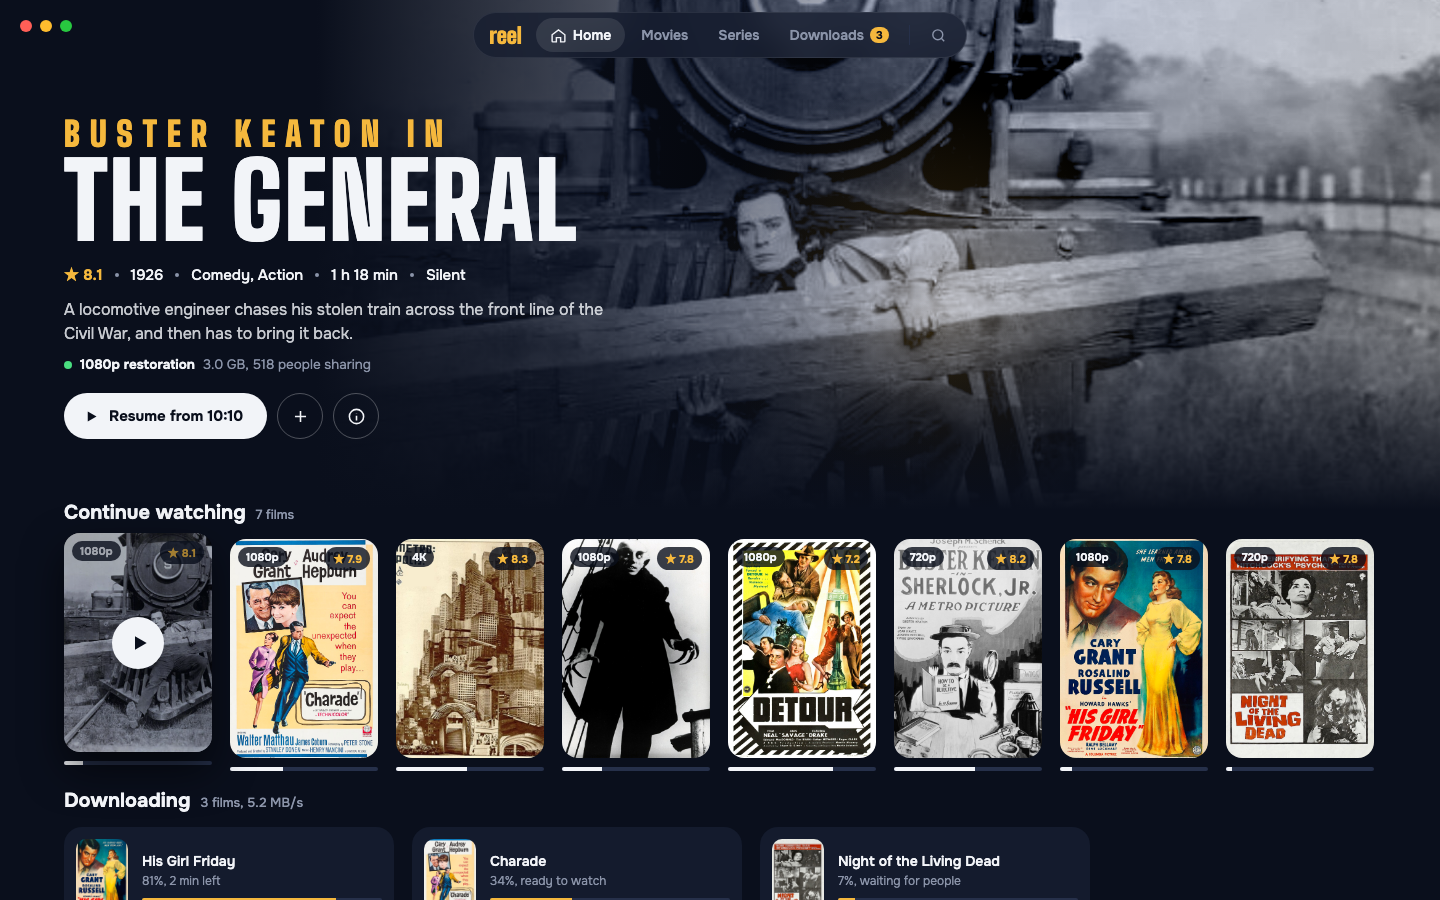
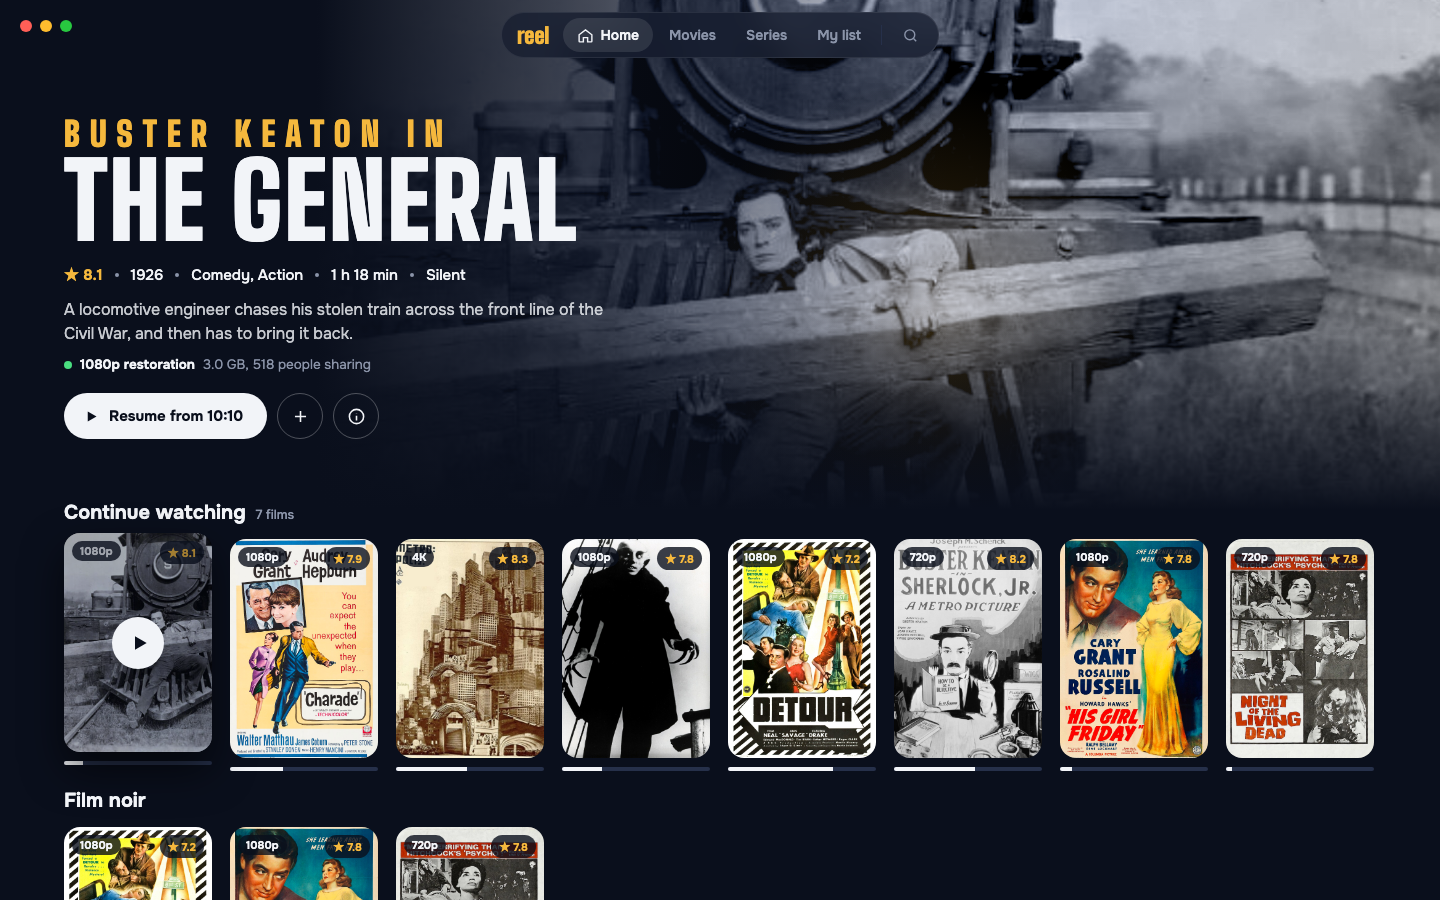
Drop downloads: reel streams only (app, mockups, design docs)

Changed region(s): [[0.0312, 0.8711, 0.75, 1.0], [0.3438, 0.0, 0.6875, 0.0622]]

diff --git a/design/concept/mac-home.html b/design/concept/mac-home.html
@@ -68,7 +68,7 @@
     <div class="item selected"><svg viewBox="0 0 24 24"><path d="M3 11l9-7 9 7v9a1 1 0 0 1-1 1h-5v-6H9v6H4a1 1 0 0 1-1-1z"/></svg>Home</div>
     <div class="item">Movies</div>
     <div class="item">Series</div>
-    <div class="item">Downloads <span class="count">3</span></div>
+    <div class="item">My list</div>
     <div class="sep"></div>
     <div class="item"><svg viewBox="0 0 24 24"><circle cx="11" cy="11" r="7"/><path d="M20 20l-4-4"/></svg></div>
   </nav>
@@ -101,11 +101,11 @@
   </section>
 
   <section class="shelf" style="top:788px">
-    <h2>Downloading <span>3 films, 5.2 MB/s</span></h2>
+    <h2>Film noir</h2>
     <div class="row">
-      <div class="dl"><img src="img/poster-friday.jpg" alt=""><div class="d"><div class="t">His Girl Friday</div><div class="s">81%, 2 min left</div><div class="track"><i style="width:81%"></i></div></div></div>
-      <div class="dl"><img src="img/poster-charade.jpg" alt=""><div class="d"><div class="t">Charade</div><div class="s">34%, ready to watch</div><div class="track"><i style="width:34%"></i></div></div></div>
-      <div class="dl"><img src="img/poster-night.jpg" alt=""><div class="d"><div class="t">Night of the Living Dead</div><div class="s">7%, waiting for people</div><div class="track"><i style="width:7%"></i></div></div></div>
+      <div class="p"><div class="poster"><img src="img/poster-detour.jpg" alt=""><span class="badge l">1080p</span><span class="badge r">★ 7.2</span></div></div>
+      <div class="p"><div class="poster"><img src="img/poster-friday.jpg" alt=""><span class="badge l">1080p</span><span class="badge r">★ 7.8</span></div></div>
+      <div class="p"><div class="poster"><img src="img/poster-night.jpg" alt=""><span class="badge l">720p</span><span class="badge r">★ 7.8</span></div></div>
     </div>
   </section>
 </body>

diff --git a/design/concept/phone-home.html b/design/concept/phone-home.html
@@ -67,10 +67,11 @@
   </section>
 
   <section class="shelf">
-    <h2>Downloading <span>3 films, 5.2 MB/s</span></h2>
+    <h2>Film noir <span>See all</span></h2>
     <div class="row">
-      <div class="dl"><img src="img/poster-friday.jpg" alt=""><div class="d"><div class="t">His Girl Friday</div><div class="s">81%, 2 min left</div><div class="track"><i style="width:81%"></i></div></div></div>
-      <div class="dl"><img src="img/poster-night.jpg" alt=""><div class="d"><div class="t">Night of the Living Dead</div><div class="s">7%, waiting for people</div><div class="track"><i style="width:7%"></i></div></div></div>
+      <div class="p"><div class="poster"><img src="img/poster-detour.jpg" alt=""><span class="badge">★ 7.2</span></div></div>
+      <div class="p"><div class="poster"><img src="img/poster-friday.jpg" alt=""><span class="badge">★ 7.8</span></div></div>
+      <div class="p"><div class="poster"><img src="img/poster-night.jpg" alt=""><span class="badge">★ 7.8</span></div></div>
     </div>
   </section>
 
@@ -87,7 +88,7 @@
   <nav class="tabs">
     <div class="tab selected"><svg viewBox="0 0 24 24"><path d="M3 11l9-7 9 7v9a1 1 0 0 1-1 1h-5v-6H9v6H4a1 1 0 0 1-1-1z"/></svg>Home</div>
     <div class="tab"><svg viewBox="0 0 24 24"><rect x="3" y="3" width="7" height="7" rx="1.5"/><rect x="14" y="3" width="7" height="7" rx="1.5"/><rect x="3" y="14" width="7" height="7" rx="1.5"/><rect x="14" y="14" width="7" height="7" rx="1.5"/></svg></div>
-    <div class="tab"><span class="n"><svg viewBox="0 0 24 24"><path d="M12 4v11M7 10l5 5 5-5M5 20h14"/></svg></span></div>
+    <div class="tab"><svg viewBox="0 0 24 24"><path d="M6 3h12v18l-6-4-6 4z"/></svg></div>
     <div class="tab"><svg viewBox="0 0 24 24"><circle cx="11" cy="11" r="7"/><path d="M20 20l-4-4"/></svg></div>
   </nav>
 </body>

diff --git a/app/data.ts b/app/data.ts
@@ -11,8 +11,6 @@ export interface Film {
   paper: string;
   /** Where the viewer stopped, seconds; absent if not started. */
   stoppedAt?: number;
-  /** Download progress 0..1 for the "Downloading" shelf. */
-  downloaded?: number;
   /** A magnet link the engine can play; demo films without one show "no source". */
   magnet?: string;
 }
@@ -41,9 +39,9 @@ export const films: Film[] = [
   { id: "general", year: 1926, minutes: 78, ink: "#2A1E14", paper: "#C9A27A", stoppedAt: 610 },
   { id: "sherlock", year: 1924, minutes: 45, ink: "#F2EDE4", paper: "#7A2E2E" },
   { id: "detour", year: 1945, minutes: 68, ink: "#F0D9A8", paper: "#22313F" },
-  { id: "charade", year: 1963, minutes: 113, ink: "#1F1A17", paper: "#E4A0A8", downloaded: 0.34 },
-  { id: "friday", year: 1940, minutes: 92, ink: "#F3EEE2", paper: "#2F4858", downloaded: 0.81 },
-  { id: "night", year: 1968, minutes: 96, ink: "#D8D4CC", paper: "#151515", downloaded: 0.07 },
+  { id: "charade", year: 1963, minutes: 113, ink: "#1F1A17", paper: "#E4A0A8" },
+  { id: "friday", year: 1940, minutes: 92, ink: "#F3EEE2", paper: "#2F4858" },
+  { id: "night", year: 1968, minutes: 96, ink: "#D8D4CC", paper: "#151515" },
 ];
 
 export interface Shelf {
@@ -55,6 +53,6 @@ export interface Shelf {
 export const shelves: Shelf[] = [
   { id: "open", items: films.filter((f) => f.magnet != null) },
   { id: "continue", items: films.filter((f) => f.stoppedAt != null) },
-  { id: "downloading", items: films.filter((f) => f.downloaded != null) },
+  { id: "noir", items: films.filter((f) => ["detour", "friday", "night", "charade"].includes(f.id)) },
   { id: "silent", items: films.filter((f) => f.year < 1930) },
 ];

diff --git a/design/concept/tv-player.html b/design/concept/tv-player.html
@@ -88,7 +88,7 @@
   </section>
 
   <section class="bottom">
-    <div class="state"><i></i><b>6 min ready ahead</b> downloading at 3.4 MB/s from 37 people</div>
+    <div class="state"><i></i><b>6 min ready ahead</b> streaming at 3.4 MB/s from 37 people</div>
     <div class="scrub">
       <span class="have" style="left:0;width:42%"></span>
       <span class="have" style="left:58%;width:3%"></span>
@@ -97,7 +97,7 @@
       <span class="played"></span><span class="thumb"></span>
     </div>
     <div class="times"><span>41:12</span><span>1:11:48 left</span></div>
-    <div class="legend"><span><i style="background:var(--paper)"></i>Watched</span><span><i style="background:rgba(245,184,61,.55)"></i>Downloaded, plays instantly</span><span><i style="background:rgba(255,255,255,.18)"></i>Not downloaded yet</span></div>
+    <div class="legend"><span><i style="background:var(--paper)"></i>Watched</span><span><i style="background:rgba(245,184,61,.55)"></i>Ready, plays instantly</span><span><i style="background:rgba(255,255,255,.18)"></i>Not loaded yet</span></div>
     <div class="controls">
       <div class="btn play"><svg viewBox="0 0 24 24"><path d="M7 4h4v16H7zM13 4h4v16h-4z"/></svg></div>
       <div class="btn"><svg viewBox="0 0 24 24"><path d="M11 6L5 12l6 6M18 6l-6 6 6 6"/></svg></div>

diff --git a/app/ui/Poster.tsx b/app/ui/Poster.tsx
@@ -1,7 +1,6 @@
 // A typographic poster: the film's title set on its own two colors. Focus is
 // the projector light: lift, beam outline, brighter; the rest of the row dims.
 import { effect, Text, View, type ViewRef } from "nsh";
-import { t } from "nsh/i18n";
 import { filmText, type Film } from "../data";
 import { colors, fonts, radius, u } from "./theme";
 
@@ -56,22 +55,6 @@ export function Poster(props: {
           {String(props.film().year)}
         </Text>
       </View>
-      <If when={props.film().downloaded != null}>
-        <Progress value={() => props.film().downloaded ?? 0} />
-      </If>
-    </View>
-  );
-}
-
-function Progress(props: { value: () => number }) {
-  return (
-    <View style={{ gap: u(6) }}>
-      <View style={{ height: u(6), borderRadius: u(3), backgroundColor: colors.line() }}>
-        <View style={{ height: u(6), borderRadius: u(3), width: `${Math.round(props.value() * 100)}%`, backgroundColor: colors.screen() }} />
-      </View>
-      <Text style={{ fontFamily: fonts.body, fontSize: u(24), color: colors.dim() }}>
-        {t("film.downloaded", { percent: Math.round(props.value() * 100) })}
-      </Text>
     </View>
   );
 }

diff --git a/design/concept/tv-home.html b/design/concept/tv-home.html
@@ -87,7 +87,7 @@
     <div class="item selected"><svg viewBox="0 0 24 24"><path d="M3 11l9-7 9 7v9a1 1 0 0 1-1 1h-5v-6H9v6H4a1 1 0 0 1-1-1z"/></svg>Home</div>
     <div class="item">Movies</div>
     <div class="item">Series</div>
-    <div class="item">Downloads <span class="count">3</span></div>
+    <div class="item">My list</div>
     <div class="sep"></div>
     <div class="item"><svg viewBox="0 0 24 24"><circle cx="11" cy="11" r="7"/><path d="M20 20l-4-4"/></svg></div>
     <div class="item"><svg viewBox="0 0 24 24"><circle cx="12" cy="12" r="3"/><path d="M19.4 15a1.7 1.7 0 0 0 .3 1.8l.1.1a2 2 0 1 1-2.8 2.8l-.1-.1a1.7 1.7 0 0 0-1.8-.3 1.7 1.7 0 0 0-1 1.5V21a2 2 0 1 1-4 0v-.1a1.7 1.7 0 0 0-1.1-1.5 1.7 1.7 0 0 0-1.8.3l-.1.1a2 2 0 1 1-2.8-2.8l.1-.1a1.7 1.7 0 0 0 .3-1.8 1.7 1.7 0 0 0-1.5-1H3a2 2 0 1 1 0-4h.1a1.7 1.7 0 0 0 1.5-1.1 1.7 1.7 0 0 0-.3-1.8l-.1-.1a2 2 0 1 1 2.8-2.8l.1.1a1.7 1.7 0 0 0 1.8.3H9a1.7 1.7 0 0 0 1-1.5V3a2 2 0 1 1 4 0v.1a1.7 1.7 0 0 0 1 1.5 1.7 1.7 0 0 0 1.8-.3l.1-.1a2 2 0 1 1 2.8 2.8l-.1.1a1.7 1.7 0 0 0-.3 1.8V9a1.7 1.7 0 0 0 1.5 1H21a2 2 0 1 1 0 4h-.1a1.7 1.7 0 0 0-1.5 1z"/></svg></div>

diff --git a/app/ui/Player.tsx b/app/ui/Player.tsx
@@ -22,8 +22,7 @@ export function Player() {
     const tr = transfer();
     const peers = tr?.peers != null ? t("player.peers", { count: tr.peers }) : "";
     const speed = tr ? t("player.speed", { speed: tr.speed.toFixed(1) }) : "";
-    const done = tr ? t("player.downloaded", { percent: Math.round(tr.progress * 100) }) : "";
-    return [buffering() ? t("player.buffering") : "", done, speed, peers].filter(Boolean).join(", ");
+    return [buffering() ? t("player.buffering") : "", speed, peers].filter(Boolean).join(" ");
   };
 
   return (

diff --git a/design/directions.md b/design/directions.md
@@ -81,11 +81,11 @@ posters with badges. Mockups: `design/concept/*.html`, renders in `design/concep
 | Token | Hex | Role |
 |---|---|---|
 | `night` | `#0A0F1C` | background, blue-black |
-| `deck` | `#141B2D` | raised surfaces: panels, download cards, release rows |
+| `deck` | `#141B2D` | raised surfaces: panels, release rows |
 | `rule` | `#26304A` | lines, empty progress tracks |
 | `paper` | `#F2F4F8` | text, the Play pill, focus |
 | `mist` | `#8B94A9` | secondary text |
-| `lamp` | `#F5B83D` | the one accent: rating, download progress, "selected" marks, glow |
+| `lamp` | `#F5B83D` | the one accent: rating, "ready ahead" in the player, "selected" marks, glow |
 
 Health of a release (people sharing): green `#4ADE80`, amber `#F59E0B`, red `#F87171`, as signal
 bars, never as the only cue (always with the count).
@@ -106,16 +106,16 @@ Phone: title 68, section 19, body 15.
 
 - Full-bleed hero still of the featured film, subject on the right (mirror the still if needed),
   dark gradients left and bottom, a lamp-coloured radial glow behind the subject.
-- Floating pill nav centered at the top: logo, Home, Movies, Series, Downloads (count badge),
+- Floating pill nav centered at the top: logo, Home, Movies, Series, My list,
   search, settings. Phone: the same pill as a bottom tab bar.
 - Hero block left: title, meta (rating, year, genre, runtime), 2 lines about, the release that Play
   will use (quality, size, people sharing), white Play pill + round secondary buttons.
 - Shelves of portrait posters with quality and rating badges; Continue watching has a watched
-  track under each poster; Downloading uses wide cards with a lamp progress bar and time left.
+  track under each poster. No downloads screen: reel streams only.
 - Film screen: release list sorted by how fast it starts (quality, source, size, tracks, people
   sharing, a plain-words note: "Plays now", "Needs 25 Mbit/s", "Few people sharing").
-- Player: scrubber shows watched (paper), downloaded (lamp) and missing (grey) ranges, with a line
-  "6 min ready ahead, downloading at 3.4 MB/s from 37 people"; Audio, Subtitles and Release in
+- Player: scrubber shows watched (paper), ready (lamp) and not loaded yet (grey) ranges, with a line
+  "6 min ready ahead, streaming at 3.4 MB/s from 37 people"; Audio, Subtitles and Release in
   one panel.
 
 ## Focus and selected (TV remote)

diff --git a/design/brief.md b/design/brief.md
@@ -1,6 +1,6 @@
 # reel: design brief
 
-**What.** An app that plays films and series straight from torrents, with the torrent engine
+**What.** An app that streams films and series straight from torrents (no downloading for later: what the engine fetches is a temporary cache), with the torrent engine
 built in (Rust core inside the app, no separate server). Platforms: Samsung Tizen TV first, then
 macOS, Android / Android TV, iOS. One UI codebase in NSH.
 
@@ -12,7 +12,7 @@ phone: pick something on the way home, then watch on the TV.
 to where you stopped.
 
 **Main screens.**
-1. Home: continue watching, what is downloading, browse.
+1. Home: continue watching, browse.
 2. Film: description, available releases (quality, size, how many people share it), Watch.
 3. Choose a file (for series and multi-file releases).
 4. Player: playback, audio and subtitle tracks, buffer state.

diff --git a/.claude/skills/ui-design/SKILL.md b/.claude/skills/ui-design/SKILL.md
@@ -83,7 +83,7 @@ keyboard; arrows use the same spatial navigation as the TV.
 
 ## Copy
 
-Plain words from the viewer's side: "Watch", "Keep downloading", "Choose a file", not "Add
+Plain words from the viewer's side: "Watch", "Resume", "Choose a file", not "Add
 torrent to session". An action keeps its name through the flow. Errors say what happened and
 what to do ("No one is sharing this file right now. Try another release."), without apology.
 Empty screens invite an action. Sentence case everywhere.
